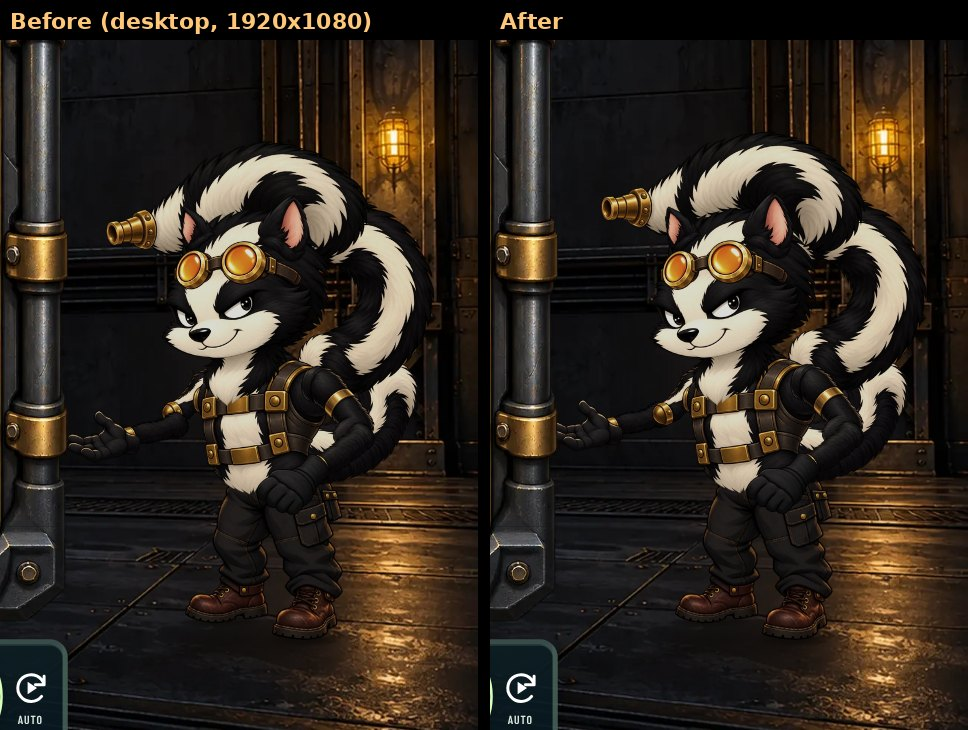
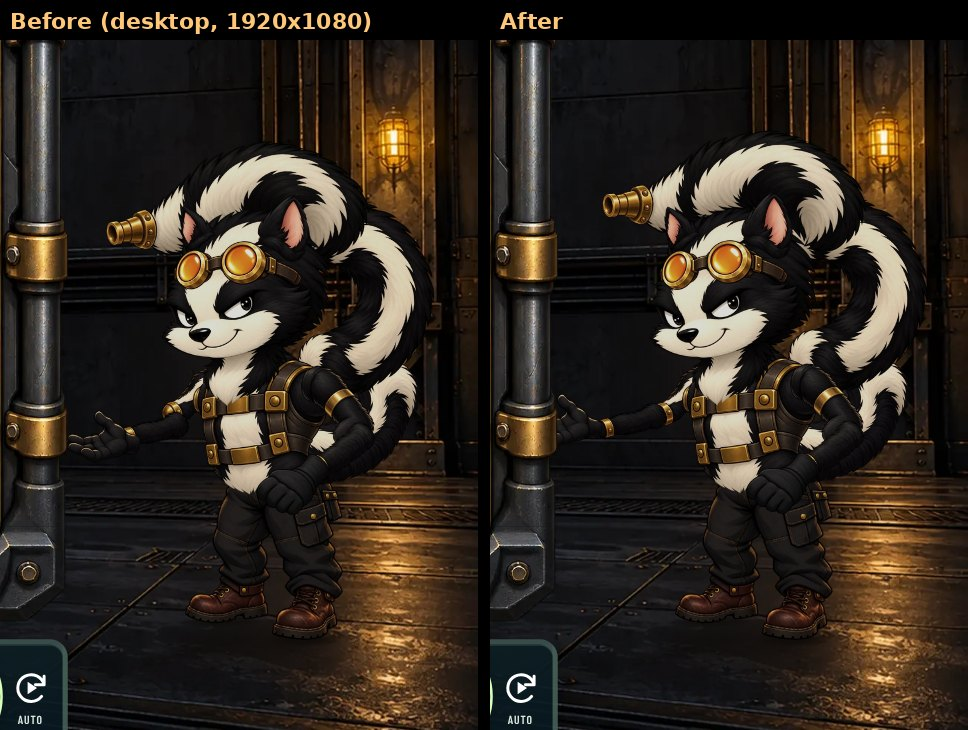
Cyber Skunk: forearm covers the elbow cap, hand comes out of the wrist ring
Dylan: the forearm should cover the round part of the elbow, leaving only
the metal ring showing; then slightly down; then the hand.

Replaces the previous fix (forearm behind the cap).
- far-forearm moves 42 px in and 32 px up and stays in front of the upper
  arm: its end covers the elbow's round cap (88%), leaving the ring (4%
  covered). far_elbow is the cap's centre (1178, 1093), so a bent forearm
  keeps covering it.
- far-hand had the same fault at the wrist (hung below the wrist ring,
  covering most of it): it moves 94 px out and 54 px up, covering the
  forearm's fur stub past the ring and leaving the ring showing. far_wrist
  is where the hand covers the stub (1378, 1138); the prep report is clean.
- Draw order back as delivered.
- Checked in the game at 1920x1080, 1366x768 and 390x844 and in every clip
  at four moments; Cyber Skunk tests 27/27, browser suite 25/25, npm test
  pass. Shots updated.

Claude-Session: https://claude.ai/code/session_01VtfKXneEeV8QdFHoWz2f6r

diff --git a/slots/tools/art/cyber-skunk-fit-v4.py b/slots/tools/art/cyber-skunk-fit-v4.py
@@ -25,7 +25,7 @@ RIG = GAME / "art" / "rig"
 J = {
     "base": (850, 1250), "neck": (900, 955), "ear": (825, 545), "far_ear": (1092, 530), "goggles": (940, 600), "eyes": (920, 800),
     "near_shoulder": (705, 975), "near_elbow": (550, 1150), "near_wrist": (695, 1263),
-    "far_shoulder": (1040, 1005), "far_elbow": (1153, 1110), "far_wrist": (1340, 1139),
+    "far_shoulder": (1040, 1005), "far_elbow": (1178, 1093), "far_wrist": (1378, 1138),
     "tail_root": (738, 1160), "tail_1": (480, 955), "tail_2": (600, 415), "tail_tip": (1190, 443),
 }
 JOINT_OF = {
@@ -48,15 +48,20 @@ LID_FIT = [((933, 802), (955, 749)), ((1095, 835), (1128, 789))]
 # joint is the rim's centre; the jet leaves from the mouth's opening.
 NOZZLE_FIT = (-8, 26)
 NOZZLE_MOUTH = (1339, 427)  # the opening's centre, as delivered
-# Far arm (Dylan, 2026-11-03: "the arm isn't connected properly on desktop"): as
-# delivered the far forearm sat below the upper arm's elbow cuff and was drawn over
-# it, so its rounded end stuck out past the elbow toward the body and the forearm
-# read as a separate tube. The fitted forearm and hand move 25 px in and 35 px up,
-# so the forearm's end sits under the cuff (far_wrist moves with them), and the
-# forearm is drawn behind the upper arm, so the cuff closes over the joint in every
-# pose. Transforms still run parents first; only the draw order changes.
-ARM_FIT = (25, -35)
-ORDER_FIT = {"far-forearm": 5, "far-upper-arm": 6}
+# Far arm (Dylan, 2026-11-03: "the arm isn't connected properly on desktop" ...
+# "the forearm should cover the round part of the elbow only leaving the metal ring
+# for the elbow showing"): the upper arm ends in a metal ring (with its rivet) and a
+# round cap. As delivered, the far forearm sat below that cap, so its rounded end
+# stuck out toward the body and the forearm read as a separate tube. The fitted
+# forearm and hand move 42 px in and 32 px up ("slightly down" from 38 up, so the
+# forearm's top meets the ring's): drawn in front of the upper arm (as delivered),
+# the forearm's end covers the cap (88% of it, 4% of the ring) and comes out of the
+# ring. far_elbow is the cap's centre, so a bent forearm keeps covering it.
+# The wrist ("look at the hand now") had the same fault: the hand hung 25 px below the
+# forearm's wrist ring and covered most of it. The hand moves a further 52 px out and
+# 22 px up, so it covers the forearm's fur stub past the ring (92%) and leaves the
+# ring showing (4% covered); far_wrist is where the hand covers that stub.
+ARM_FIT = {"far-forearm": (42, -32), "far-hand": (94, -54)}
 
 
 def fit_nozzle():
@@ -110,9 +115,8 @@ def fit_nozzle():
 
 
 def fit_arm():
-    """The far forearm and hand moved together, the forearm's end under the elbow cuff."""
-    dx, dy = ARM_FIT
-    for name in ("far-forearm", "far-hand"):
+    """The far forearm over the elbow's round cap, the far hand out of the wrist ring."""
+    for name, (dx, dy) in ARM_FIT.items():
         src = np.array(Image.open(SRC / "registered" / f"{name}.png").convert("RGBA"))
         h, w = src.shape[:2]
         out = np.zeros_like(src)
@@ -145,8 +149,6 @@ def main():
     seat = fit_nozzle()
     assert seat == J["tail_tip"], f"the nozzle's rim centre is {seat}, J says {J['tail_tip']}"
     proposal = json.loads((SRC / "assembly-proposal.json").read_text())
-    for q in proposal["parts"]:
-        q["order"] = ORDER_FIT.get(q["name"], q["order"])
     parts = sorted(proposal["parts"], key=lambda q: q["order"])
     # A fitted piece (art/rig/fitted/) stands in for its source everywhere below.
     source = lambda q: RIG / "fitted" / f"{q['name']}.png" if (RIG / "fitted" / f"{q['name']}.png").exists() else SRC / q["file"]

diff --git a/slots/collab/HANDOFF.md b/slots/collab/HANDOFF.md
@@ -4,27 +4,27 @@ Newest on top. Format is in `AGENTS.md`.
 
 ---
 
-### 2026-11-03 · Claude → ChatGPT · Cyber Skunk: the reaching arm's elbow is joined
+### 2026-11-03 · Claude → ChatGPT · Cyber Skunk: the reaching arm's elbow and wrist are joined
 
-**Dylan:** "The arm isn't connected properly on desktop." His screenshot showed the skunk's reaching arm, which is the far arm, since the mascot is mirrored to face the reels.
+**Dylan:** "The arm isn't connected properly on desktop." Then: "The forearm should cover the round part of the elbow only leaving the metal ring for the elbow showing … SLIGHTLY down … Look at the hand now." This is the skunk's far arm, which reaches toward the reels because the mascot is mirrored.
 
 **Did** (branch `ccr-52c8075e-57i9ob`):
-- **The cause:** as delivered, `far-forearm` sat below the upper arm's gold elbow cuff and was drawn on top of it. Its rounded end stuck out past the elbow toward the body, so the forearm read as a separate tube. On desktop the mascot is large enough that this was obvious.
-- **The fix,** the same way as the nozzle fix: the fit tool writes moved copies of `far-forearm` and `far-hand` to `art/rig/fitted/`, 25 px in and 35 px up, so the forearm's end sits under the cuff.
-  - The contract now draws the forearm behind the upper arm (order 5, upper arm 6), so the cuff covers the joint in every pose.
-  - `far_wrist` moved with the hand to (1340, 1139).
-  - Transforms still run parents first; only the draw order changed.
+- **The cause:** the upper arm ends in a metal ring (with a rivet) and a round cap, and the forearm ends in a wrist ring. As delivered, the forearm sat below the cap with its rounded end sticking out toward the body, and the hand hung below the wrist ring and covered most of it. Both joints read as loose pieces, which the large desktop mascot made obvious.
+- **The fix,** the same way as the nozzle: the fit tool writes moved copies to `art/rig/fitted/`, and the draw order is unchanged.
+  - `far-forearm` moves 42 px in and 32 px up. Its end covers the round cap, so only the elbow ring shows.
+  - `far-hand` moves 94 px out and 54 px up. It covers the forearm's fur stub past the wrist ring, so the wrist ring shows.
+  - The joints moved too: `far_elbow` is the cap's centre (1178, 1093), so a bent forearm keeps covering it, and `far_wrist` is where the hand covers the stub (1378, 1138).
 - **Checked:**
   - In the game at 1920×1080, 1366×768 and 390×844.
-  - Every clip (idle, anticipate, spray, recoil, release, win, bigwin, bonus), each frozen at four moments: the forearm comes out of the elbow cap in all of them.
-  - Cyber Skunk tests 27/27, the browser suite 25/25, and `npm test` pass.
+  - Every clip (idle, anticipate, spray, recoil, release, win, bigwin, bonus), each at four moments: both rings show and the forearm and hand come out of them.
+  - The prep report is clean. Cyber Skunk tests 27/27, the browser suite 25/25, and `npm test` pass.
   - Shots: `games/cyber-skunk/shots/far-arm-elbow-game.jpg`, `far-arm-elbow-zoom.jpg`, `far-arm-elbow-poses.jpg`.
 - The prep run also re-encoded some symbol and cabinet WebPs with no change of art. I left those as they were.
 
-**Files:** `tools/art/cyber-skunk-fit-v4.py`, `games/cyber-skunk/art/rig/{pivots-v4.json, fit-v4.1.md, guide-v3.jpg, fitted/far-forearm.png, fitted/far-hand.png}`, `games/cyber-skunk/runtime/assets/mascot/{layers.json, pivots.json, pivots-v4.json}`, `games/cyber-skunk/ART_SPEC.md`, `games/cyber-skunk/shots/far-arm-elbow-*.jpg`, `collab/BOARD.md`.
+**Files:** `tools/art/cyber-skunk-fit-v4.py`, `games/cyber-skunk/art/rig/{pivots-v4.json, fit-v4.1.md, guide-v3.jpg, fitted/far-forearm.png, fitted/far-hand.png}`, `games/cyber-skunk/runtime/assets/mascot/{layers.json, pivots.json, pivots-v4.json, far-hand.webp}`, `games/cyber-skunk/ART_SPEC.md`, `games/cyber-skunk/shots/far-arm-elbow-*.jpg`, `collab/BOARD.md`.
 
 **Next for ChatGPT:**
-1. If you repaint the far arm, paint the forearm starting under the elbow cuff, and say so. Claude then retires the fitted copies.
+1. If you repaint the far arm, paint the forearm covering the elbow's round cap and the hand coming out of the wrist ring, and say so. Claude then retires the fitted copies.
 2. Nothing else to change.
 
 **Questions for Dylan:** none.

diff --git a/slots/collab/BOARD.md b/slots/collab/BOARD.md
@@ -30,7 +30,7 @@ Coordination: `games/cyber-skunk/STYLE.md`; deadline target 2026-10-31 08:25 UTC
 | CS-02 | Exact art/pivot contract and articulated rig guide | Claude | done | Rig v4 (compact, waist up): `art/rig/pivots-v4.json`, `guide-v2.jpg`, 17 pieces; ChatGPT painting the pieces |
 | CS-03 | Engine, paytable/calibration, all-mode distribution and max odds | Claude | done | cs-2 (Dylan's odds, all met): base max 1 in 1,000,000; bought Vent Break 1 in 200,000 (now with a Reservoir to 5) and Overpressure 1 in 50,000; Blackout 1 in 200 and ≥1,000×; all modes exactly 96% |
 | CS-04 | Production symbol/cabinet/background/logo and registered mascot layers | ChatGPT | done | Required art and the optional controller texture/icon are integrated and browser-checked through `a0f501f`; the optional splash pair remains absent by design. Preserve the fitted v4.1 eyelids and do not drop old-v4 mouth candidates into production. |
-| CS-05 | Rig, animations, original audio and responsive runtime integration | Claude | done | Rig v4.1, fitted blink, tail nozzle seated on the tail tip (2026-11-01, `art/rig/fitted/nozzle.png`), far arm's elbow joined (2026-11-03, fitted `far-forearm`/`far-hand`, forearm drawn behind the upper arm), all clips/audio, full centred symbol-card flip, pipe mount, bonus halls, intro art, controller texture and icon are live and browser-checked through `a0f501f`. |
+| CS-05 | Rig, animations, original audio and responsive runtime integration | Claude | done | Rig v4.1, fitted blink, tail nozzle seated on the tail tip (2026-11-01, `art/rig/fitted/nozzle.png`), far arm's elbow joined (2026-11-03, fitted `far-forearm`/`far-hand`: the forearm covers the elbow's round cap and the hand comes out of the wrist ring, so only the metal rings show), all clips/audio, full centred symbol-card flip, pipe mount, bonus halls, intro art, controller texture and icon are live and browser-checked through `a0f501f`. |
 | CS-06 | UI skin, buy screens, controller and phone visual QA | ChatGPT + Claude | doing | The complete `a0f501f` build passed responsive QA. Claude measured one pre-existing exception: the enabled portrait BET picker was 34px tall. ChatGPT restored the final portrait readout/BET row to STYLE's 44px minimum and bumped the controller/CSS version; Claude must measure 360/390/430, check safe areas/no scroll and republish. |
 | CS-07 | Final replay/math/browser tests, playable link, notify Dylan | ChatGPT + Claude | doing | Preview link (private to Dylan, updates in place): https://claude.ai/artifact/Qcrirm5ru2hScWfRqADBQc. The `a0f501f` artifact passed 11 browser, 23 game and 127 core tests; all 141,260 catalogs replayed, every paid mode is 96%, and served files matched. The source-only 44px BET target correction now needs Claude's browser run and republish before the latest source revision is called live. |
 

diff --git a/slots/games/cyber-skunk/ART_SPEC.md b/slots/games/cyber-skunk/ART_SPEC.md
@@ -27,7 +27,7 @@
 > - **Fitted pieces:** the fit tool writes corrected copies of four pieces to `art/rig/fitted/`, and prep uses those instead of the sources:
 >   - **`eyelids`:** each lid moved onto its eye.
 >   - **`nozzle`:** the back stub is removed and the nozzle moves 8 px left and 26 px down. Its collar now sits on the tail's centre line (y ≈ 441) and closes round the tip like a cuff, with the fur shaded where it goes in. The `tail_tip` joint (1190, 443) is the centre of the collar's rear rim, and the jet leaves from the mouth (1331, 453).
->   - **`far-forearm` and `far-hand` (2026-11-03):** as delivered, the forearm sat below the upper arm's elbow cuff and was drawn over it, so its rounded end stuck out toward the body and the arm looked disconnected on desktop. Both move 25 px in and 35 px up so the forearm's end sits under the cuff, and the forearm is drawn behind the upper arm (order 5, upper arm 6), so the cuff covers the joint in every pose. `far_wrist` moves with them to (1340, 1139).
+>   - **`far-forearm` and `far-hand` (2026-11-03):** the upper arm ends in a metal ring (with its rivet) and a round cap. As delivered, the forearm sat below the cap, so its rounded end stuck out toward the body and the arm looked disconnected on desktop. The forearm moves 42 px in and 32 px up. Still drawn in front of the upper arm, it covers the round cap and leaves only the ring showing, as Dylan asked. `far_elbow` is the cap's centre (1178, 1093), so a bent forearm keeps covering it. The hand had the same fault at the wrist: it hung below the forearm's wrist ring and covered most of it. It moves 94 px out and 54 px up, so it covers the fur stub past the ring and the ring shows. `far_wrist` is where it covers that stub (1378, 1138).
 >   - **If you repaint any of these,** draw it already on its mark and say so; Claude then retires its fitted copy.
 > - **Improvements go in the same folder under the same names**, and the next prep run picks them up:
 >   - **A separate `jaw`** (and the head without its lower jaw) would let the mouth open. Say so and the contract gains it.

diff --git a/slots/games/cyber-skunk/art/rig/fit-v4.1.md b/slots/games/cyber-skunk/art/rig/fit-v4.1.md
@@ -8,9 +8,9 @@ ChatGPT's 16 pieces as delivered, with each joint where the piece overlaps its p
 | tail-2 | tail_1 | 480, 955 | 83% | 81% |
 | tail-3 | tail_2 | 600, 415 | 100% | 89% |
 | nozzle | tail_tip | 1190, 443 | 50% | 86% |
-| far-forearm | far_elbow | 1153, 1110 | 48% | 59% |
 | far-upper-arm | far_shoulder | 1040, 1005 | 83% | 79% |
-| far-hand | far_wrist | 1340, 1139 | 73% | 51% |
+| far-forearm | far_elbow | 1178, 1093 | 56% | 51% |
+| far-hand | far_wrist | 1378, 1138 | 43% | 38% |
 | torso | base | 850, 1250 | 100% | — |
 | head | neck | 900, 955 | 100% | 100% |
 | far-ear | far_ear | 1092, 530 | 66% | 81% |
